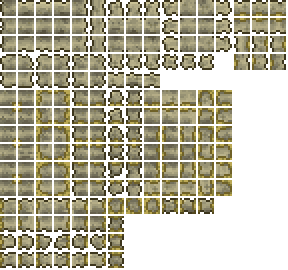
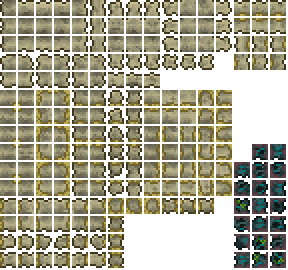
Limestone

Changed region(s): [[0.8125, 0.5333, 1.0, 1.0]]

diff --git a/Tiles/Limestone/Limestone.cs b/Tiles/Limestone/Limestone.cs
@@ -1,0 +1,38 @@
+using Microsoft.Xna.Framework;
+using Origins.Walls;
+using Origins.World.BiomeData;
+using Terraria;
+using Terraria.GameContent;
+using Terraria.ID;
+using Terraria.ModLoader;
+using static Terraria.ModLoader.ModContent;
+
+namespace Origins.Tiles.Limestone {
+	public class Limestone : OriginTile, IDefiledTile {
+		public override void SetStaticDefaults() {
+			Main.tileSolid[Type] = true;
+			TileID.Sets.SandBiome[Type] = 1;
+			TileID.Sets.isDesertBiomeSand[Type] = true;
+			Main.tileBlockLight[Type] = true;
+			TileID.Sets.ForAdvancedCollision.ForSandshark[Type] = true;
+			TileID.Sets.Conversion.Sandstone[Type] = true;
+			TileID.Sets.CanBeClearedDuringGeneration[Type] = true;
+			AddMapEntry(new Color(180, 172, 134));
+			AddDefiledTile();
+			DustType = DustID.Sand;
+		}
+		public override bool TileFrame(int i, int j, ref bool resetFrame, ref bool noBreak) {
+			TileExtenstions.DoFraming(i, j, resetFrame, map: [(Type, 1), (TileID.Sand, 2)], TileExtenstions.ExtraTileBlending);
+			return false;
+		}
+	}
+	public class Limestone_Item : ModItem {
+		public override void SetStaticDefaults() {
+			ItemTrader.ChlorophyteExtractinator.AddOption_FromAny(ItemID.Sandstone, Type);
+			Item.ResearchUnlockCount = 100;
+		}
+		public override void SetDefaults() {
+			Item.DefaultToPlaceableTile(TileType<Limestone>());
+		}
+    }
+}
